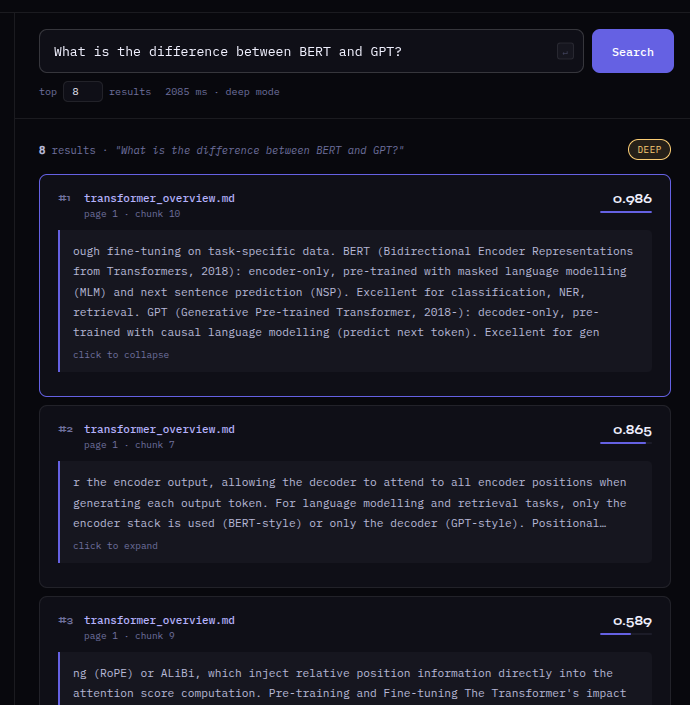
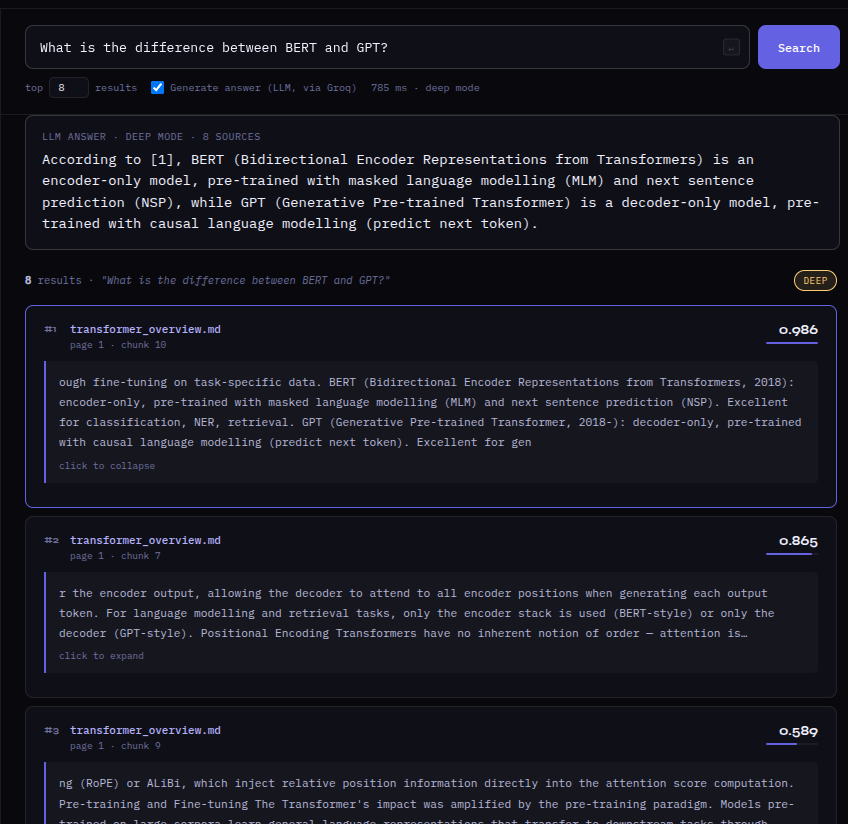
docs: update README for LLM generation pipeline

diff --git a/README.md b/README.md
@@ -10,7 +10,7 @@ pinned: false
 
 # Document Intelligence RAG
 
-Hybrid document retrieval system combining **BM25s**, **FAISS HNSW** and **CrossEncoder reranking**, evaluated on BEIR benchmarks.
+Hybrid document retrieval system combining **BM25s**, **FAISS HNSW** and **CrossEncoder reranking**, evaluated on BEIR benchmarks — extended with an optional **LLM answer generation layer** orchestrated with **LangChain** (Groq) on top of the retrieved/reranked context.
 
 ![Python](https://img.shields.io/badge/python-3.11+-blue?style=flat-square)
 ![License](https://img.shields.io/github/license/McQbis/document-intelligence-rag?style=flat-square)
@@ -25,7 +25,7 @@ Query
   │
   ▼
 QueryCache ── hit ──────────────────────────────────────── Results
-  │ miss                                                      ▲
+  │ miss                                                      │
   ▼                                                           │
 QueryRouter                                                   │
   │                                                           │
@@ -33,14 +33,26 @@ QueryRouter                                                   │
   │     ├─ BM25s (lexical)   ─┐                               │
   │     └─ FAISS HNSW (dense)─┴─ RRF fusion                   │
   │                                                           │
-  └─ deep (analytical query)  ────────────────────────────────┘
-        ├─ BM25s (lexical)   ─┐
-        └─ FAISS HNSW (dense)─┴─ RRF fusion ─ CrossEncoder rerank
+  ├─ deep (analytical query)  ────────────────────────────────┘
+  │     ├─ BM25s (lexical)   ─┐
+  │     └─ FAISS HNSW (dense)─┴─ RRF fusion ─ CrossEncoder rerank
+  │
+  ▼
+retrieved chunks (with/without rerank)
+  │
+  ▼
+LangChain orchestration (LCEL chain)
+format_context → prompt → ChatGroq → answer
+  │
+  ▼
+Answer + cited sources
 ```
 
 **QueryCache** — two-layer cache: exact LRU match (hash) and semantic near-duplicate detection (cosine similarity). Bypassed in deep mode to always return fresh results.
 
-**QueryRouter** — classifies queries automatically based on length and analytical keywords. Can be overridden explicitly with `fast`, `auto`, or `deep` mode.
+**QueryRouter** — classifies queries automatically based on length and analytical keywords. Can be overridden explicitly with `fast`, `auto`, or `deep` mode. This is also what decides whether the reranker runs before generation (`deep`) or not (`fast`) — the retrieval/reranking layer stays the existing custom hybrid pipeline; LangChain doesn't touch it.
+
+**Generation layer (`rag/generation`)** — a small LCEL chain (`format_context | prompt | ChatGroq | StrOutputParser`) that takes whatever chunks the retriever/router produced (reranked or not) and turns them into a cited, grounded answer. Generation is optional and fails gracefully: if `GROQ_API_KEY` isn't set, `/api/search` (retrieval-only) keeps working and `/api/ask` returns a clear 503 instead of an error.
 
 ---
 
@@ -48,7 +60,7 @@ QueryRouter                                                   │
 
 ![Demo screenshot](assets/screenshot.png)
 
-A live demo is available on Hugging Face Spaces. Upload your own PDF, MD, or TXT files and query them with fast or deep retrieval mode.
+A live demo is available on Hugging Face Spaces. Upload your own PDF, MD, or TXT files, query them with fast or deep retrieval mode, and optionally toggle "Generate answer (LLM)" to get a cited, LLM-written answer on top of the retrieved passages.
 
 👉 https://huggingface.co/spaces/McQbis/document-intelligence-rag
 
@@ -61,6 +73,7 @@ from rag.ingestion.pipeline import IngestionPipeline
 from rag.retrieval.embeddings import EmbeddingModel
 from rag.retrieval.retriever import HybridRetriever
 from rag.routing.router import QueryRouter, RouteMode
+from rag.generation import AnswerGenerator
 
 # Ingest
 pipeline = IngestionPipeline()
@@ -71,13 +84,53 @@ emb = EmbeddingModel()
 retriever = HybridRetriever(emb)
 retriever.build_index(chunks)
 
-# Search
+# Retrieve (+ optional reranker, depending on mode)
 router = QueryRouter(retriever)
-results = router.search("What is retrieval-augmented generation?", mode=RouteMode.AUTO)
+results = router.search("What is retrieval-augmented generation?", mode=RouteMode.DEEP)
 
 for chunk, score in results:
     print(f"[{score:.3f}] {chunk.source} — {chunk.text[:120]}")
+
+# Generate a grounded answer from those chunks (requires GROQ_API_KEY)
+generator = AnswerGenerator()
+answer = generator.generate("What is retrieval-augmented generation?", results)
+print(answer)
 ```
+
+### Generation environment variables
+
+```bash
+cp .env.example .env   # then fill in your own GROQ_API_KEY
+```
+
+`.env` is loaded automatically on startup (via `python-dotenv`) and is gitignored — never commit it. On Hugging Face Spaces / Cloud Run, the same variables are set as platform secrets instead; `.env` simply doesn't exist there, so nothing changes in the code path.
+
+| Variable | Required | Default |
+|---|---|---|
+| `GROQ_API_KEY` | for `/api/ask` only | — (get one free at [console.groq.com](https://console.groq.com)) |
+| `GROQ_MODEL` | no | `llama-3.1-8b-instant` |
+
+**What happens if the free-tier rate limit is hit:** the Groq call fails, `AnswerGenerator` catches it and `/api/ask` returns `429` with a clear message (`"Groq API rate limit reached (free-tier quota exceeded)..."`) instead of a bare 500 — `/api/search` is unaffected either way, since retrieval and generation are fully decoupled.
+
+---
+
+## API
+
+| Endpoint | Description |
+|---|---|
+| `POST /api/session` | Create an isolated, in-memory session |
+| `POST /api/upload` | Upload a PDF/MD/TXT file into the session index |
+| `POST /api/search` | Retrieval only — hybrid search (+ optional reranker), no LLM call |
+| `POST /api/ask` | Retrieval (+ optional reranker, per `mode`) **+ LangChain-orchestrated Groq generation** — returns a cited answer plus the source chunks it was grounded on |
+
+`/api/ask` reuses the exact same retrieval/reranking path as `/api/search` (same `mode`: `fast` / `deep` / `auto`); the only addition is the generation step.
+
+| Failure | Response |
+|---|---|
+| `GROQ_API_KEY` not set | `503` — `/api/search` keeps working unaffected |
+| Groq rate limit / quota exceeded | `429` — clear message, suggests retrying or using `/api/search` |
+| Groq API key invalid/revoked | `401` |
+| No documents indexed yet | `400` |
 
 ---
 
@@ -154,3 +207,11 @@ Pull requests only run tests — deploy fires on merge to `main`.
 | SciFact | finetuned + deep | 0.9033 | **0.7390** |
 
 👉 **Full report:** [RESULTS.md](RESULTS.md) — includes fast vs deep comparison, finetuning analysis and future work.
+
+---
+ 
+## Known Limitations
+ 
+- **Chunk boundaries can cut mid-word/mid-sentence.** The chunker splits on a fixed size, not on semantic or sentence boundaries, so a retrieved passage occasionally starts or ends mid-word (e.g. "...ough fine-tuning..." instead of "...through fine-tuning..."). This doesn't affect retrieval scoring (which operates on the full chunk), but it can look slightly rough in the UI. A sentence-aware splitter (e.g. respecting `.`/`\n` boundaries) would fix this at the cost of less uniform chunk sizes.
+- **Generation is only as grounded as the retrieved context.** The LLM is instructed to answer only from the numbered passages it's given, but with `fast` mode (no reranker) the top-k context can be noisier, which can occasionally lead to thinner or less precise answers than `deep` mode.
+- **No conversation memory.** Each `/api/ask` call is independent — there's no multi-turn follow-up handling (e.g. "what about its tokenizer?" referring to the previous question) yet.